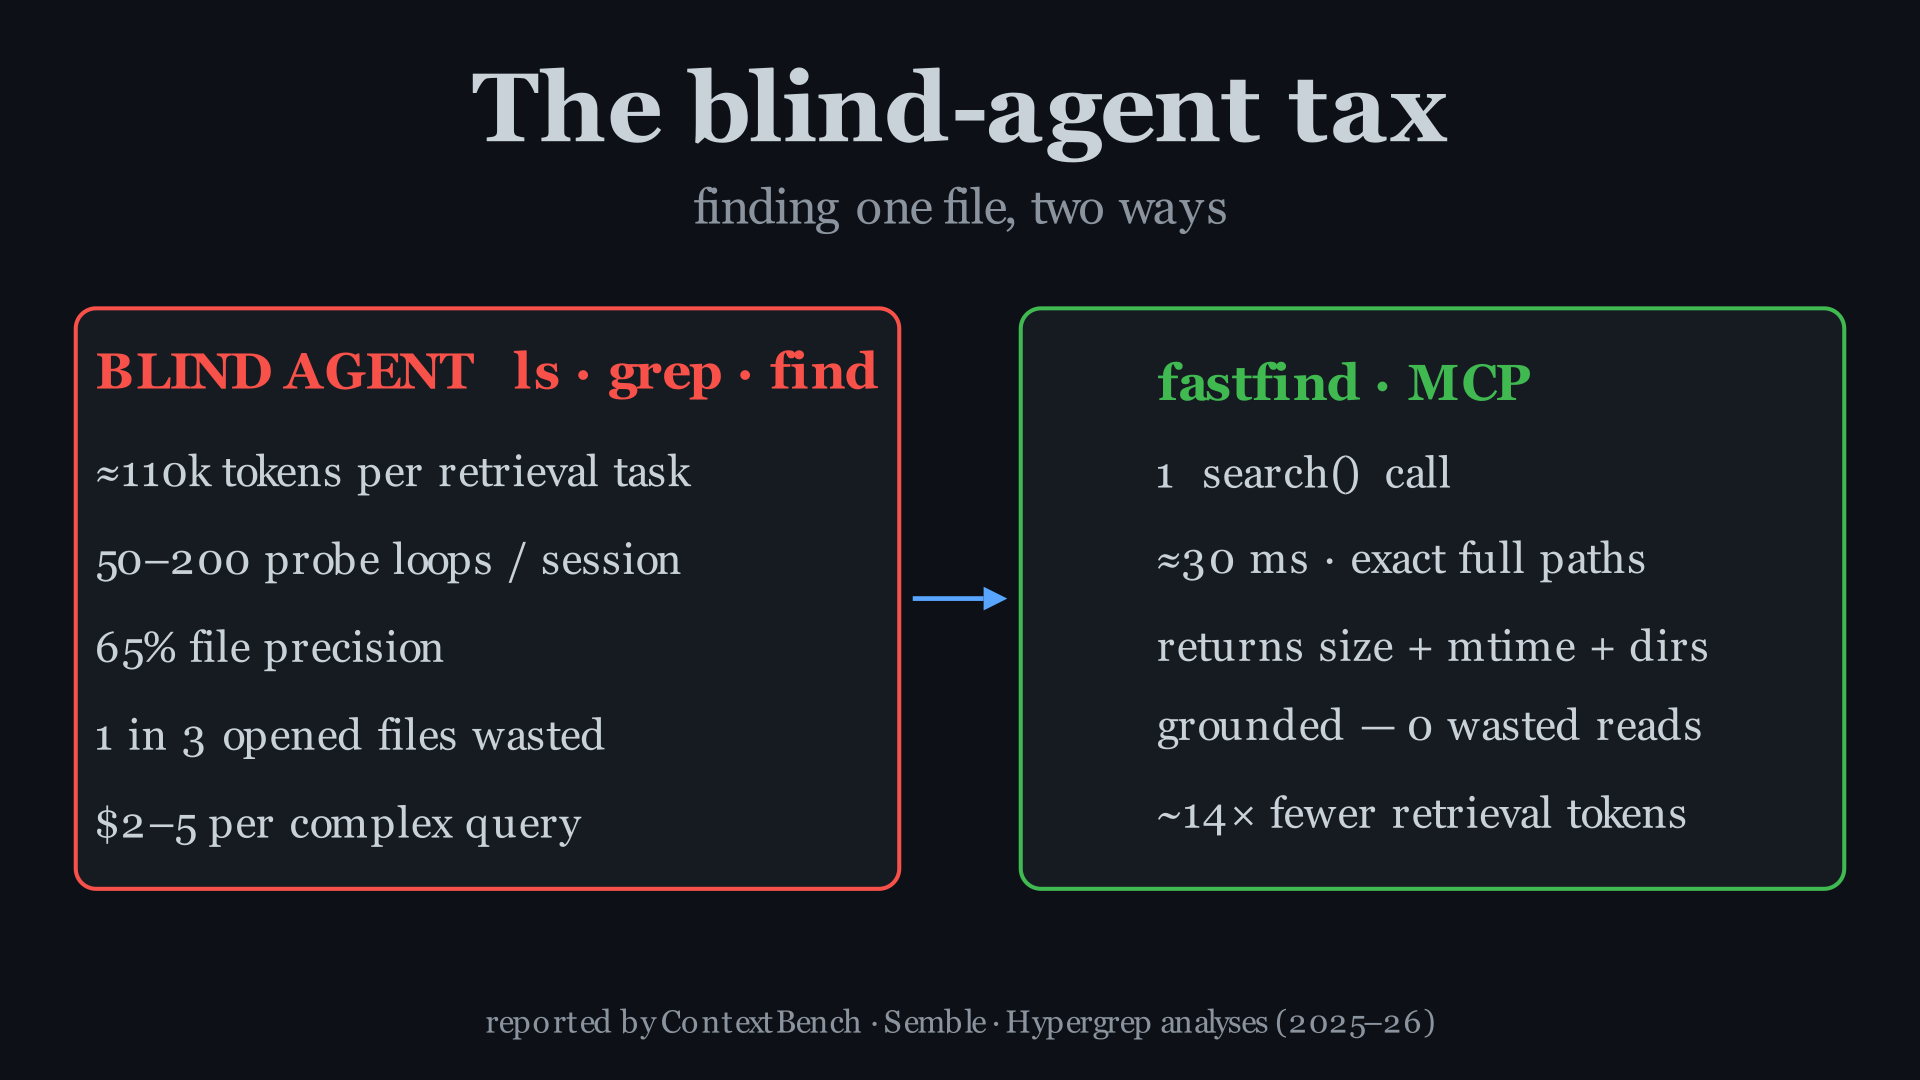
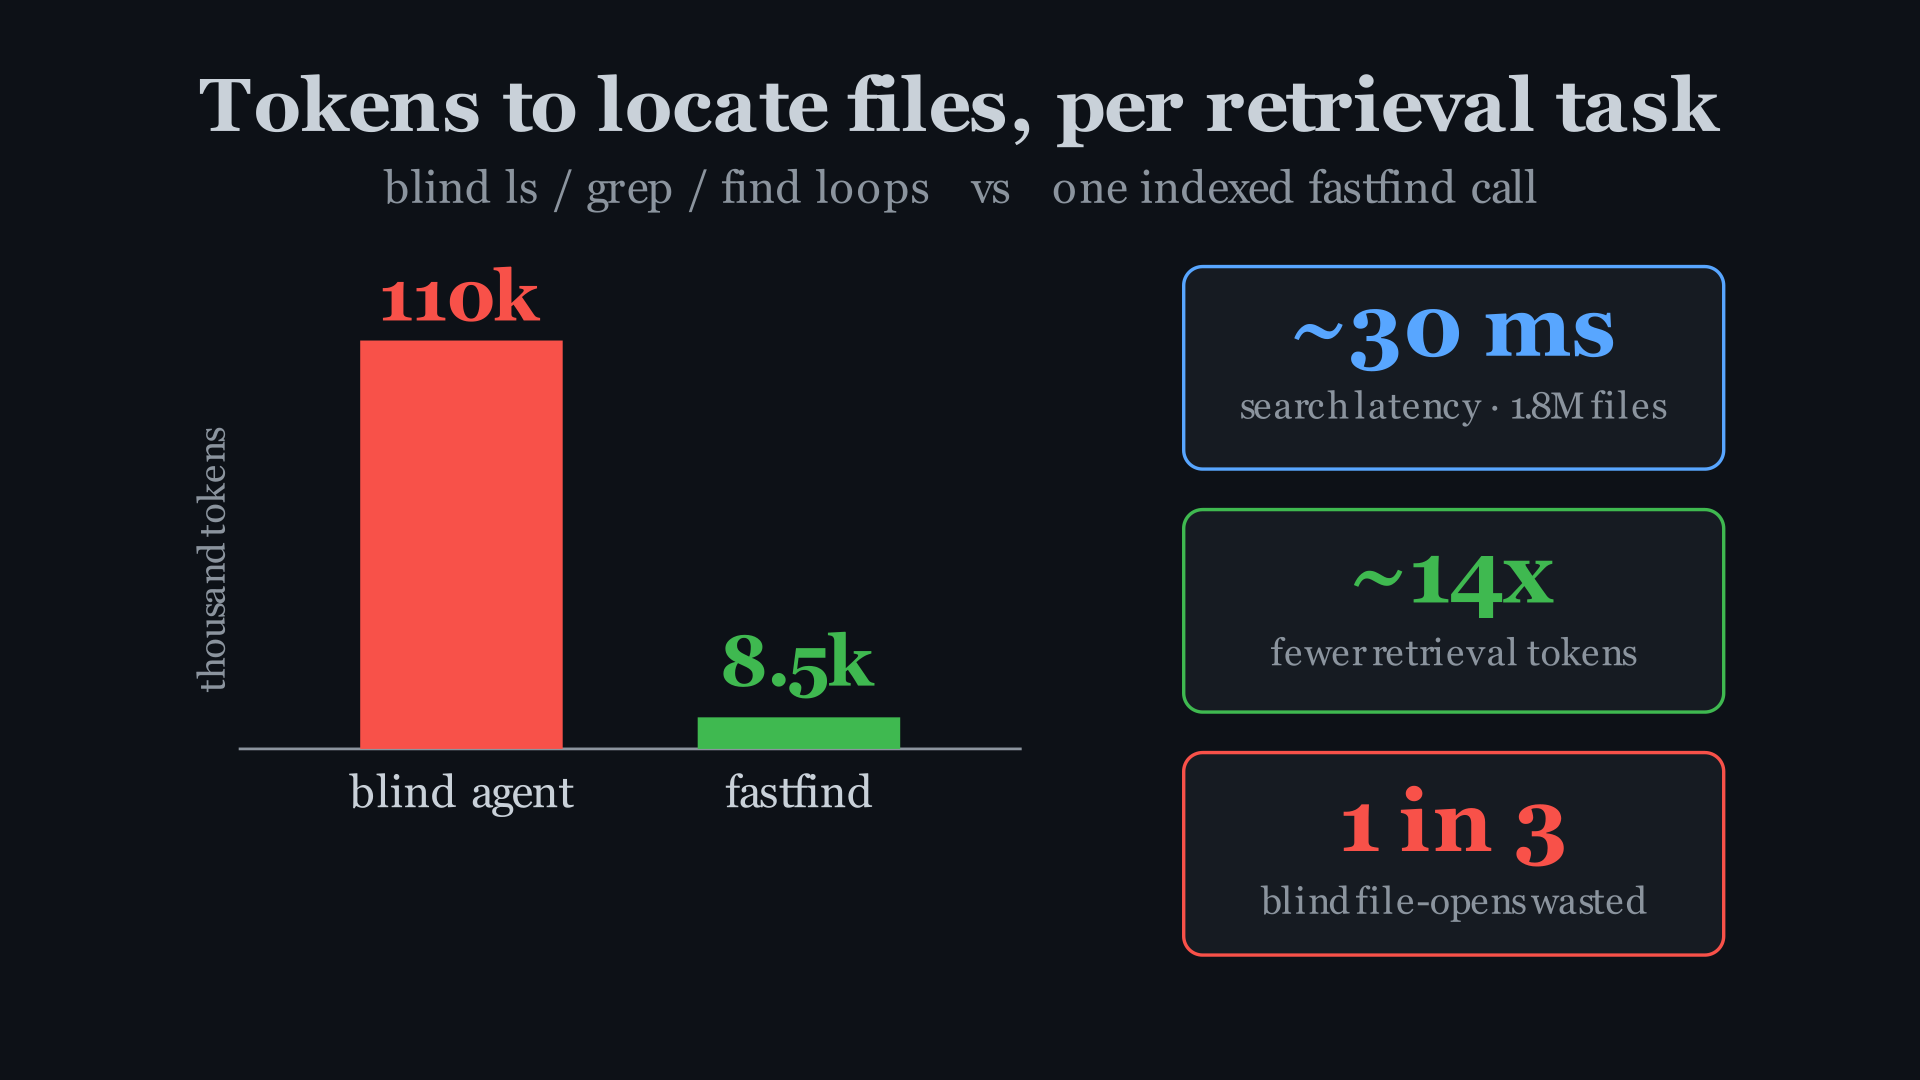
docs: static manim concept image + real bar-chart benchmark (replaces gif)

diff --git a/docs/anim/probe_concept.py b/docs/anim/probe_concept.py
@@ -1,0 +1,59 @@
+from manim import *
+
+config.background_color = "#0d1117"
+FG = "#c9d1d9"
+MUTED = "#8b949e"
+BLUE = "#58a6ff"
+GREEN = "#3fb950"
+RED = "#f85149"
+PANEL = "#161b22"
+
+
+class ProbeConcept(Scene):
+    def construct(self):
+        title = Text("One grounded call replaces the probing loop", color=FG,
+                     weight=BOLD, font_size=38).to_edge(UP, buff=0.5)
+
+        # divider
+        div = Line([0, -3.2, 0], [0, 2.6, 0], color="#30363d", stroke_width=2)
+        vs = Text("vs", color=MUTED, font_size=28).move_to([0, -0.2, 0])
+
+        def agent(pos):
+            c = Circle(radius=0.5, color=BLUE, fill_color=PANEL, fill_opacity=1, stroke_width=3).move_to(pos)
+            t = Text("AI", color=FG, font_size=22).move_to(pos)
+            return VGroup(c, t)
+
+        def folder(pos):
+            return RoundedRectangle(width=1.0, height=0.72, corner_radius=0.07,
+                                    stroke_color=MUTED, stroke_width=2,
+                                    fill_color=PANEL, fill_opacity=1).move_to(pos)
+
+        # ---- left: blind ----
+        lhead = Text("BLIND AGENT", color=RED, weight=BOLD, font_size=26).move_to([-3.6, 2.9, 0])
+        la = agent([-6.1, 0.3, 0])
+        spots = [[-4.6, 2.0, 0], [-2.3, 1.4, 0], [-4.7, -0.7, 0], [-2.4, -1.3, 0]]
+        left = VGroup(lhead, la)
+        for p in spots:
+            f = folder(p)
+            ar = Arrow(la.get_right(), [p[0] - 0.55, p[1], 0], buff=0.1, color=RED, stroke_width=3,
+                       max_tip_length_to_length_ratio=0.12)
+            x = Text("✗", color=RED, font_size=26).move_to([p[0] + 0.55, p[1] + 0.4, 0])
+            left.add(ar, f, x)
+        lcmd = Text("ls · find · grep · cat …", color=RED, font_size=22,
+                    font="monospace").move_to([-3.6, -2.2, 0])
+        lcap = Text("50–200 loops · ~110k tokens", color=MUTED, font_size=22).move_to([-3.6, -2.8, 0])
+        left.add(lcmd, lcap)
+
+        # ---- right: fastfind ----
+        rhead = Text("fastfind · MCP", color=GREEN, weight=BOLD, font_size=26).move_to([3.6, 2.9, 0])
+        ra = agent([1.5, 0.3, 0])
+        fbox = RoundedRectangle(width=3.4, height=0.9, corner_radius=0.1, stroke_color=GREEN,
+                                stroke_width=3, fill_color=PANEL, fill_opacity=1).move_to([5.0, 0.3, 0])
+        fpath = Text("report.pdf", color=FG, font_size=22, font="monospace").move_to(fbox)
+        rar = Arrow(ra.get_right(), fbox.get_left(), buff=0.1, color=GREEN, stroke_width=5)
+        rcall = Text('search(ext="pdf")', color=BLUE, font_size=20, font="monospace").next_to(rar, UP, buff=0.15)
+        chk = Text("✓", color=GREEN, font_size=40).next_to(fbox, UP, buff=0.1)
+        rcap = Text("1 call · ~30 ms · exact path", color=MUTED, font_size=22).move_to([3.6, -2.8, 0])
+        right = VGroup(rhead, ra, fbox, fpath, rar, rcall, chk, rcap)
+
+        self.add(title, div, vs, left, right)

diff --git a/docs/anim/bench_chart.py b/docs/anim/bench_chart.py
@@ -1,0 +1,55 @@
+from manim import *
+
+config.background_color = "#0d1117"
+FG = "#c9d1d9"
+MUTED = "#8b949e"
+BLUE = "#58a6ff"
+GREEN = "#3fb950"
+RED = "#f85149"
+PANEL = "#161b22"
+
+
+class BenchmarkChart(Scene):
+    def construct(self):
+        title = Text("Tokens to locate files, per retrieval task", color=FG,
+                     weight=BOLD, font_size=40).to_edge(UP, buff=0.55)
+        sub = Text("blind ls / grep / find loops   vs   one indexed fastfind call",
+                   color=MUTED, font_size=24).next_to(title, DOWN, buff=0.16)
+
+        # --- hand-drawn bars (no LaTeX) ---
+        base_y, max_h, scale = -1.7, 3.3, 3.3 / 120.0
+
+        def bar(x, val, color, name, vlabel):
+            h = val * scale
+            rect = Rectangle(width=1.5, height=h, fill_color=color, fill_opacity=1.0, stroke_width=0)
+            rect.move_to([x, base_y + h / 2, 0])
+            vl = Text(vlabel, color=color, weight=BOLD, font_size=38).next_to(rect, UP, buff=0.14)
+            nm = Text(name, color=FG, font_size=24).next_to(rect, DOWN, buff=0.18)
+            return VGroup(rect, vl, nm)
+
+        b0 = bar(-1.25, 110, RED, "blind agent", "110k")
+        b1 = bar(1.25, 8.5, GREEN, "fastfind", "8.5k")
+        axis = Line([-2.9, base_y, 0], [2.9, base_y, 0], color=MUTED, stroke_width=2)
+        ytitle = Text("thousand tokens", color=MUTED, font_size=20).rotate(PI / 2) \
+            .next_to(axis, LEFT, buff=0.1).shift(UP * 1.4)
+        chart = VGroup(axis, ytitle, b0, b1)
+
+        def chip(big, small, color):
+            b = Text(big, color=color, weight=BOLD, font_size=46)
+            s = Text(small, color=MUTED, font_size=20)
+            inner = VGroup(b, s).arrange(DOWN, buff=0.14)
+            box = RoundedRectangle(width=4.0, height=1.5, corner_radius=0.14,
+                                   stroke_color=color, stroke_width=2.5,
+                                   fill_color=PANEL, fill_opacity=1.0)
+            inner.move_to(box.get_center())
+            return VGroup(box, inner)
+
+        chips = VGroup(
+            chip("~30 ms", "search latency · 1.8M files", BLUE),
+            chip("~14x", "fewer retrieval tokens", GREEN),
+            chip("1 in 3", "blind file-opens wasted", RED),
+        ).arrange(DOWN, buff=0.3)
+
+        body = VGroup(chart, chips).arrange(RIGHT, buff=1.2, aligned_edge=UP)
+        body.next_to(sub, DOWN, buff=0.4)
+        self.add(title, sub, body)
